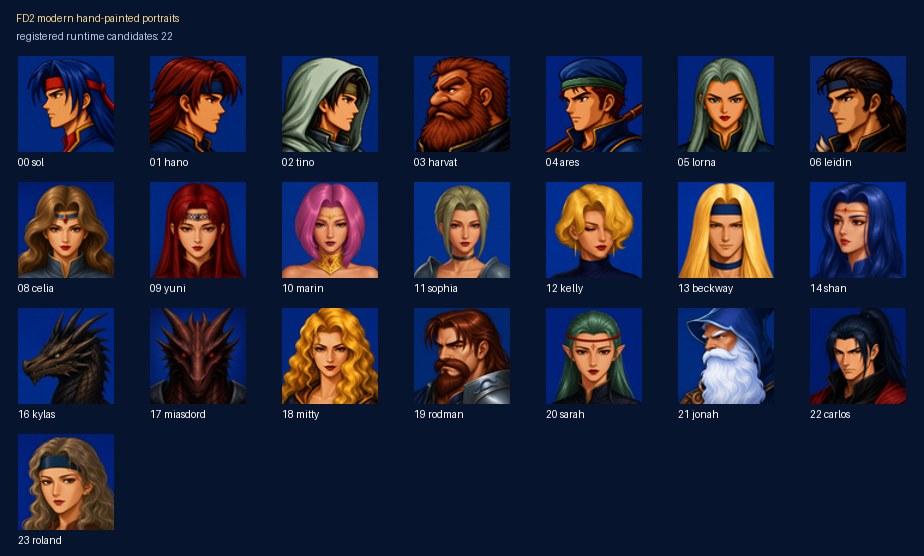
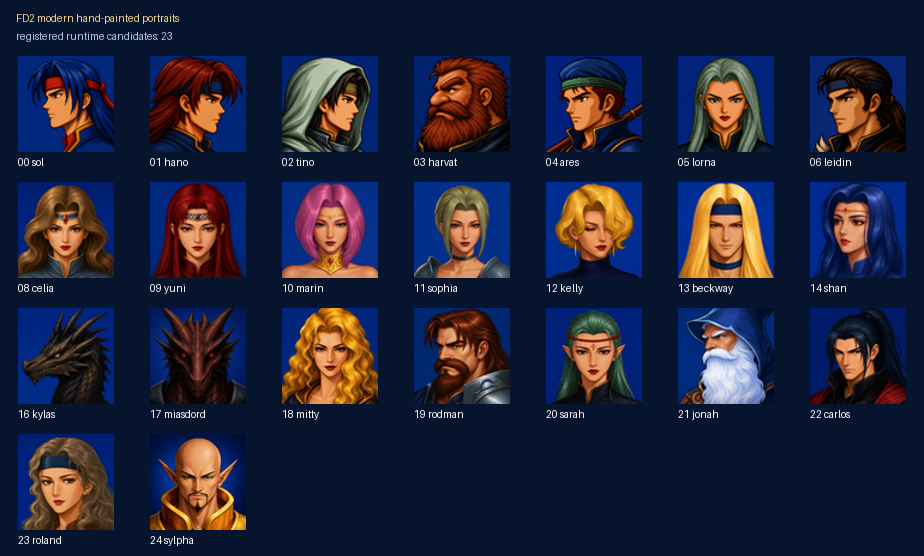
feat: 新增希爾法並校訂第二章商店四語

Changed region(s): [[0.1515, 0.7644, 0.2727, 0.9784]]

diff --git a/remake/cmd/fd2/story_locale_test.go b/remake/cmd/fd2/story_locale_test.go
@@ -61,6 +61,88 @@ func TestReviewedOpeningTranslationsUseCanonicalLineIDs(t *testing.T) {
 	}
 }
 
+func TestReviewedChapterTwoCampaignTranslationsAndItemEntities(t *testing.T) {
+	wants := map[string]map[string]string{
+		"ja": {
+			"legacy.json.remake.assets.scenarios.campaign_full.nodes.preparation_ch02.prompt":       "戦場に入りますか？",
+			"legacy.json.remake.assets.scenarios.campaign_full.nodes.retreat_ch02.lines.0.text":     "撤退！まず態勢を立て直し、反撃の機会を探そう……",
+			"legacy.json.remake.assets.scenarios.campaign_full.nodes.rumor_ch02.lines.0.text":       "ここには店頭に並べない良い物があるらしい……（酒場の前でShift+F1キー）",
+			"legacy.json.remake.assets.scenarios.campaign_full.nodes.shop_ch02_secret.goods.0.name": "ブロードソード",
+			"legacy.json.remake.assets.scenarios.campaign_full.nodes.shop_ch02_secret.goods.1.name": "ハルバード",
+			"legacy.json.remake.assets.scenarios.campaign_full.nodes.shop_ch02_secret.goods.2.name": "ウォーハンマー",
+		},
+		"en": {
+			"legacy.json.remake.assets.scenarios.campaign_full.nodes.preparation_ch02.prompt":       "Enter the battlefield?",
+			"legacy.json.remake.assets.scenarios.campaign_full.nodes.retreat_ch02.lines.0.text":     "Fall back! Let's regroup and look for a chance to counterattack...",
+			"legacy.json.remake.assets.scenarios.campaign_full.nodes.rumor_ch02.lines.0.text":       "I hear there are good things here that aren't put on display... (Press Shift+F1 in front of the tavern.)",
+			"legacy.json.remake.assets.scenarios.campaign_full.nodes.shop_ch02_secret.goods.0.name": "Broadsword",
+			"legacy.json.remake.assets.scenarios.campaign_full.nodes.shop_ch02_secret.goods.1.name": "Halberd",
+			"legacy.json.remake.assets.scenarios.campaign_full.nodes.shop_ch02_secret.goods.2.name": "War Hammer",
+		},
+		"zh-Hans": {
+			"legacy.json.remake.assets.scenarios.campaign_full.nodes.preparation_ch02.prompt":       "要进入战场吗？",
+			"legacy.json.remake.assets.scenarios.campaign_full.nodes.retreat_ch02.lines.0.text":     "撤退！先回头整顿，再找机会反攻……",
+			"legacy.json.remake.assets.scenarios.campaign_full.nodes.rumor_ch02.lines.0.text":       "听说这里有不摆在台面上的好东西……（酒馆前按 Shift+F1 键）",
+			"legacy.json.remake.assets.scenarios.campaign_full.nodes.shop_ch02_secret.goods.0.name": "阔剑",
+			"legacy.json.remake.assets.scenarios.campaign_full.nodes.shop_ch02_secret.goods.1.name": "长戟",
+			"legacy.json.remake.assets.scenarios.campaign_full.nodes.shop_ch02_secret.goods.2.name": "钉头锤",
+		},
+	}
+	itemWants := map[string]map[int]string{
+		"ja":      {1: "ブロードソード", 22: "ハルバード", 53: "ウォーハンマー", 128: "布の服", 132: "レザーアーマー", 192: "薬草", 193: "回復薬"},
+		"en":      {1: "Broadsword", 22: "Halberd", 53: "War Hammer", 128: "Cloth Garb", 132: "Leather Armor", 192: "Herb", 193: "Recovery Potion"},
+		"zh-Hans": {1: "阔剑", 22: "长戟", 53: "钉头锤", 128: "布衣", 132: "皮甲", 192: "药草", 193: "回复剂"},
+	}
+	for localeID, entries := range wants {
+		assertReviewedContentEntryIDs(t, localeID, entries)
+		catalog, err := loadOfficialLocaleEntities(localeID)
+		if err != nil {
+			t.Fatal(err)
+		}
+		for itemID, want := range itemWants[localeID] {
+			got, err := catalog.ItemName(itemID)
+			if err != nil || got != want {
+				t.Fatalf("%s item %d=%q err=%v, want %q", localeID, itemID, got, err, want)
+			}
+		}
+	}
+}
+
+func assertReviewedContentEntryIDs(t *testing.T, localeID string, wants map[string]string) {
+	t.Helper()
+	raw, err := os.ReadFile(assetPath("assets/locales/" + localeID + "/content.json"))
+	if err != nil {
+		t.Fatal(err)
+	}
+	var document struct {
+		Entries []struct {
+			StringID string `json:"string_id"`
+			Status   string `json:"status"`
+			Text     string `json:"text"`
+		} `json:"entries"`
+	}
+	if err := json.Unmarshal(raw, &document); err != nil {
+		t.Fatal(err)
+	}
+	remaining := make(map[string]string, len(wants))
+	for id, text := range wants {
+		remaining[id] = text
+	}
+	for _, entry := range document.Entries {
+		want, ok := remaining[entry.StringID]
+		if !ok {
+			continue
+		}
+		if entry.Status != "reviewed" || entry.Text != want {
+			t.Fatalf("%s %s status=%q text=%q, want reviewed %q", localeID, entry.StringID, entry.Status, entry.Text, want)
+		}
+		delete(remaining, entry.StringID)
+	}
+	if len(remaining) != 0 {
+		t.Fatalf("%s reviewed entries missing: %v", localeID, remaining)
+	}
+}
+
 func assertReviewedContentEntries(t *testing.T, localeID string, wants map[string]string) {
 	t.Helper()
 	raw, err := os.ReadFile(assetPath("assets/locales/" + localeID + "/content.json"))

diff --git a/tools/build_locale_entities.py b/tools/build_locale_entities.py
@@ -60,14 +60,20 @@ def build(campaign_path: Path, content_path: Path, overrides_path: Path, charact
         sources[item_id].append(entry["string_id"])
     if not names:
         raise ValueError("內容目錄沒有 campaign_full 商品名稱")
-    conflicts = {item_id: values for item_id, values in names.items() if len(values) != 1}
-    if conflicts:
-        raise ValueError(f"同一商品 ID 有多種譯名：{conflicts}")
     overrides = read_json(overrides_path)
     locale_overrides = overrides["locales"].get(content["locale"], {})
+    reviewed_items = set(overrides.get("reviewed_items", {}).get(content["locale"], []))
+    if not reviewed_items <= {int(item_id) for item_id in locale_overrides}:
+        raise ValueError("人工審校商品必須同時具有語系 override")
     unknown = set(locale_overrides) - {str(item_id) for item_id in names}
     if unknown:
         raise ValueError(f"override 指向不存在的商品 ID：{sorted(unknown)}")
+    conflicts = {
+        item_id: values for item_id, values in names.items()
+        if len(values) != 1 and str(item_id) not in locale_overrides
+    }
+    if conflicts:
+        raise ValueError(f"同一商品 ID 有多種譯名且沒有人工 override：{conflicts}")
     item_source = read_json(item_source_path)
     if item_source["kind"] != "fd2_original_item_names" or item_source["displayable_item_count"] != 200:
         raise ValueError("完整原版物品名稱清冊格式錯誤")
@@ -97,7 +103,7 @@ def build(campaign_path: Path, content_path: Path, overrides_path: Path, charact
         str(item_id): {
             "name": locale_overrides.get(str(item_id), next(iter(names[item_id]))),
             "source_string_ids": [source_items[str(item_id)]["source_string_id"], *sorted(sources[item_id])],
-            "status": default_status,
+            "status": "curated_remake_translation" if item_id in reviewed_items else default_status,
         }
         for item_id in sorted(names)
     }

diff --git a/tools/validate_full_locale_content.py b/tools/validate_full_locale_content.py
@@ -51,9 +51,11 @@ def load(path: Path) -> dict:
             fail(f"{path}: {key} 空文字")
         if VAR_RE.findall(entry["text"]) != entry["variables"]:
             fail(f"{path}: {key} 變數簽章不符")
-        want_status = "source" if data["locale"] == "zh-Hant" else "machine_draft"
-        if entry["status"] != want_status:
-            fail(f"{path}: {key} 審查狀態不符")
+        if data["locale"] == "zh-Hant":
+            if entry["status"] != "source":
+                fail(f"{path}: {key} 繁中來源狀態不符")
+        elif entry["status"] not in {"machine_draft", "reviewed", "blocked"}:
+            fail(f"{path}: {key} 翻譯審查狀態不符")
         if data["locale"] == "en" and CJK_RE.search(entry["text"]):
             fail(f"{path}: {key} 英文包殘留 CJK 字形")
     return data

diff --git a/docs/knowledge-base/91-worklist.md b/docs/knowledge-base/91-worklist.md
@@ -37,13 +37,13 @@
 | A2 | 原版素材全量分離與清冊 | `RELEASE-DATA-READY／RESEARCH-PARTIAL`：manifest v2現有39,825筆asset與1,005筆source-resource ledger；901 standardized、11個零長度confirmed-empty、0 blocked、93 unknown。完整本機包有40,127個實體檔案、約104 MB，已於私人庫保存。2026-08-30 `v0.1.1` Linux／Windows本機完整版均為42,258個檔案，macOS為42,332個檔案；三者均綁定engine head `be9a2a77`、通過manifest驗證並標示不可公開。三平台原生公開候選與雜湊也由GitHub Actions重建成功。公開README新增33張完整戰場低解析索引、96組sprite與96組portrait代表幀，不公開可重組逐檔素材。正式`Game` caller未發現93筆unknown有直接archive consumer，因此它們不阻擋第一版 | Windows／macOS實機抽測。只有新證據找到正式consumer才重開unknown，FDOTHER #47／#49不猜接 |
 | A3 | runtime 移除 `.DAT` 即時讀取 | `RUNTIME-E1-PARTIAL`：FDTXT、字型、FDICON、FDSHAP、ANI、FDFIELD主要玩家路徑，以及城鎮、商店、標題、LOAD、整備、教會與戰場初始化均已遷移。19個巢狀音效bank已分離；標題#77選單音與ANI #1的#78 companion均由正式runtime消費。2026-08-29 caller稽核未發現正式`Game`仍直接讀原版archive，`FD2_ORIGINAL_FDOTHER`／`DATO` locator亦已移到測試專用檔，正式binary字串檢查通過；archive adapter只留source-oracle。BGM只從完整驗證的30份OGG catalog解析，物理攻擊亦由分離FIGANI provider原子預檢 | 以version 2 ledger的93筆unknown交叉核對是否有尚未登記的玩家consumer；已具標準資料但缺manifest bridge者只補provenance。沒有正式caller的oracle helper不再列為runtime缺口；只有新證據證明正式consumer存在才重開RE→spec→runtime切片 |
 | A4 | 現代美術主題 | `PROTOTYPE-SET／DATA-CONTRACT-READY／RUNTIME-E1-PARTIAL`：索爾、哈諾、鐵諾、哈瓦特、亞雷斯、洛娜與萊汀的獨立閉嘴頭像母稿／80×80候選、第一關戰場與戰鬥HUD三張style A本機私有稿均已產生；受版控`themes/modern/catalog.json`保存穩定asset ID、來源、尺寸與SHA-256。七位speaker已接入顯式`FD2_THEME`正式對話consumer；身分／speaker／雜湊／尺寸／不透明契約任一不符即原子拒絕。2026-08-31 身分勘誤：`DATO_001 / speaker 1` 是哈諾，不是亞雷斯；亞雷斯是 `DATO_004 / speaker 4`。錯誤檔名與清冊已修正且未改哈諾像素，並已另產生正確亞雷斯候選。本輪另勘誤`0x9017`為下框右緣錨點，實際左上角是`(8,115)`。FDICON selector 0與68現各有12張`24×24`二值alpha候選與逐格雜湊；索爾基礎selector是0，68則不是固定角色身分，晚期悠妮資料曾使用`0x44`。兩組都用中性的`modern.fdicon.group_NNN.style_a`命名，正式 loader 會原子預檢24檔、雜湊、尺寸、alpha與週期後取代正規化`g.sprites[0]`／`[68]`。selector 0母稿依原版12格生成並確定性裁切；selector 68的雙劍稿已拒收，第11格改為可重現像素合成。原生indexed compositor尚未接真彩覆蓋；直接疊最終畫面會錯蓋foreground，同色寫入也不能靠diff推回mask，因此維持失敗即關閉。規格見`61-modern-theme-runtime-spec.md`。戰場與HUD仍是concept | 擴充native foreground write-mask契約；同時抽測七位現代頭像的正常故事上／下框，再依穩定speaker身分繼續逐角色產生候選。map0 tile ID與FDOTHER HUD cells仍須各自建立基準，不能從合成概念圖反切 |
-| A5 | 繁中／簡中／日文／英文與可調文字顯示 | `DATA-READY（5,176筆／語）＋RUNTIME-E1-PARTIAL`：實檔 `entry_count` 四語均為5,176；先前5,205為過期斷言，已依目前完整內容包修正。35份劇本共1,564句具穩定 `line_id`；正式 story、handler dialog及事件61／75／76均查詢四語內容。非繁中原生 indexed 對話已重建安全分頁並依裁決固定閉嘴。FDTXT清冊現涵蓋200個可顯示物品與15個confirmed-empty ID；32名角色、94筆戰鬥raw姓名、35筆非空指令與29筆職業均有四語實體目錄，職業26／27／28保留原版占位。轉職成功與後備確認介面會在mutation前預取四語角色／職業／句型。玩家／敵方共用指令與戰鬥姓名已由共用owner重畫；高頻戰鬥提示、法術結算、寶物／擊破獎勵、教會轉交／復活，以及戰場物品欄、可用性、選擇目標／目的地、回復／傷害／移位演出狀態均已接官方pack。物理攻擊結算若缺角色名與職業名會失敗即關閉，不再顯示硬編碼「攻方／目標」；`figName()` 僅供除錯日誌，不是玩家語系缺口。商店、旅館／出戰整備、勝敗／戰後整備、標題LOAD、教會服務，以及結局素材不足／可編輯結語提示均已移除硬編碼繁中；舊式戰場物品 fallback 的標題與空欄標記也會先原子取得語系文字再繪製。官方介面契約目前每語114鍵；F4會原子同步正式grid與SpellBook相容顯示。2026-08-31 已逐 `line_id` 完成人工審校：日文24句、英文7句、簡中6句，涵蓋草地開場、王城與第一章的首批高風險誤譯；其餘日文／英文仍是機器初稿，尚無正常玩家截圖 E2 | 接續王城與第一章剩餘人工審校，再做四語正常玩家畫面。商店服務格已證實是純圖示，不列翻譯缺口；教會亂碼紋理屬UI codec／palette缺陷。4筆劇情身份歧義不與0–31隊伍顯示目錄合併；raw戰鬥姓名也不以`native_identity`替代 |
+| A5 | 繁中／簡中／日文／英文與可調文字顯示 | `DATA-READY（5,176筆／語）＋RUNTIME-E1-PARTIAL`：實檔 `entry_count` 四語均為5,176；先前5,205為過期斷言，已依目前完整內容包修正。35份劇本共1,564句具穩定 `line_id`；正式 story、handler dialog及事件61／75／76均查詢四語內容。非繁中原生 indexed 對話已重建安全分頁並依裁決固定閉嘴。FDTXT清冊現涵蓋200個可顯示物品與15個confirmed-empty ID；32名角色、94筆戰鬥raw姓名、35筆非空指令與29筆職業均有四語實體目錄，職業26／27／28保留原版占位。轉職成功與後備確認介面會在mutation前預取四語角色／職業／句型。玩家／敵方共用指令與戰鬥姓名已由共用owner重畫；高頻戰鬥提示、法術結算、寶物／擊破獎勵、教會轉交／復活，以及戰場物品欄、可用性、選擇目標／目的地、回復／傷害／移位演出狀態均已接官方pack。物理攻擊結算若缺角色名與職業名會失敗即關閉，不再顯示硬編碼「攻方／目標」；`figName()` 僅供除錯日誌，不是玩家語系缺口。商店、旅館／出戰整備、勝敗／戰後整備、標題LOAD、教會服務，以及結局素材不足／可編輯結語提示均已移除硬編碼繁中；舊式戰場物品 fallback 的標題與空欄標記也會先原子取得語系文字再繪製。官方介面契約目前每語114鍵；F4會原子同步正式grid與SpellBook相容顯示。2026-08-31 人工審校現況為日文112句、英文103句、簡中80句；第二章首批另閉合闊劍、長戟、釘頭鎚、藥草、回復劑、皮甲與布衣的日英實體名稱，其餘內容仍維持機器初稿標記，尚無正常玩家截圖 E2 | 接續第二章人工審校，再做四語正常玩家畫面。商店服務格已證實是純圖示，不列翻譯缺口；教會亂碼紋理屬UI codec／palette缺陷。4筆劇情身份歧義不與0–31隊伍顯示目錄合併；raw戰鬥姓名也不以`native_identity`替代 |
 
 > **2026-08-31 A5 商店四語追加：**除購買／出售結果四條交易路徑外，
 > **2026-08-31 A5 審校筆數勘誤：**上表的日文 24 句是上一批快照；本批再完成
-> 王城與第一章後續審校後，現況為日文 100 句、英文 91 句、
-> 簡中 68 句。下一次重排
-> A5 表格時應以此筆數取代舊快照，不可再引用 24 句作現況。
+> 王城與第一章後續審校後，當時現況為日文 100 句、英文 91 句、
+> 簡中 68 句；第二章首批已由上方 A5 現況取代。本段只保留數字演進原因，
+> 不可再引用 24／100 句作目前進度。
 >
 > **2026-08-31 A4 speaker 7 停止線：**`DATO_007`、角色清冊與四語實體目錄
 > 指向蘭斯洛特，但 `ch03` 的 `speaker=7` 標為「約」，`ch18` 才標為蘭斯洛特；
@@ -138,6 +138,13 @@
 > 已保存更正後的約拿與新增羅蘭，現為 catalog allow-list 內 71 個檔案、22 位
 > 頭像候選；私人 manifest 已逐檔核對大小與 SHA-256。公開總攬亦由同一份
 > catalog 確定性重建，不再顯示錯誤的狼族約拿。
+>
+> **2026-08-31 A4 希爾法追加：**`DATO_024`、10 份故事檔共 41 筆 `speaker=24` 與繁中
+> 實體目錄三方一致確認希爾法；原版影像的完全禿頭、高額頭、兩側長尖耳、
+> 細黑八字鬍、中央尖山羊鬍及金橙高聖職衣領已由人工檢視記錄。識別字依重製
+> 英文實體目錄採 `Sylpha`；現代主題現有 23 位私有頭像候選。
+> `fd2-assets-private` 提交 `d1873505` 已保存母稿與執行期 PNG；私人 manifest
+> 現為 73 個 catalog allow-list 檔案，逐檔大小與 SHA-256 驗證通過。
 >
 > **2026-08-31 A5 第一章英文停止線：**第一章故事與事件只剩
 > `奈野啊捏?` 一句未審校；`Nano`、`Naino` 與日文 `ナイノ・フィニックス`

diff --git a/docs/knowledge-base/61-modern-theme-runtime-spec.md b/docs/knowledge-base/61-modern-theme-runtime-spec.md
@@ -187,6 +187,14 @@
   三方一致確認，識別字採重製英文實體目錄的 `Roland`。人工影像檢視保留
   正面略向左、灰棕長捲髮、寬深藍頭帶、狹長眼、淡紅唇色與小型金色耳飾；
   希莉亞現代母稿只作平滑手繪完成度與背景參考。
+- `modern.sylpha.portrait.style_a.frame0`
+- 執行期檔：`sylpha-portrait-style-a-v1-80.png`，`80×80`，SHA-256
[1 lines of base64/hex data omitted]
+- 母稿：`sylpha-portrait-style-a-v1-master.png`，`1254×1254`；角色身分由
+  `DATO_024_m0`、10 份故事檔共 41 筆 `speaker=24 / speaker_name=希爾法` 與繁中實體清冊
+  三方一致確認，識別字採重製英文實體目錄的 `Sylpha`。人工影像檢視保留
+  完全禿頭、高額頭、兩側長尖耳、瘦削嚴肅面孔、細黑八字鬍、中央尖山羊鬍
+  與金橙高聖職衣領；約拿現代母稿只作完成度與背景參考，不帶入白鬍或頭巾。
 - `modern.tino.portrait.style_a.frame0`
 - 執行期檔：`tino-portrait-style-a-v1-80.png`，`80×80`，SHA-256
[1 lines of base64/hex data omitted]
